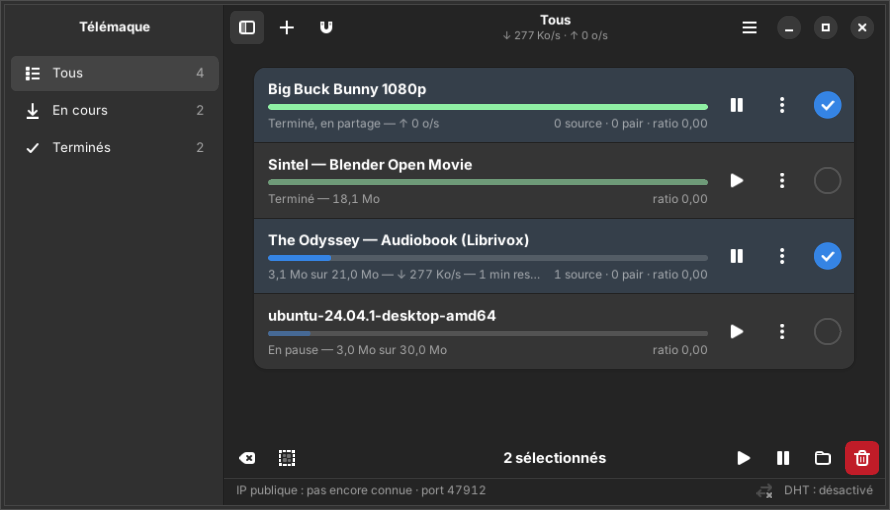
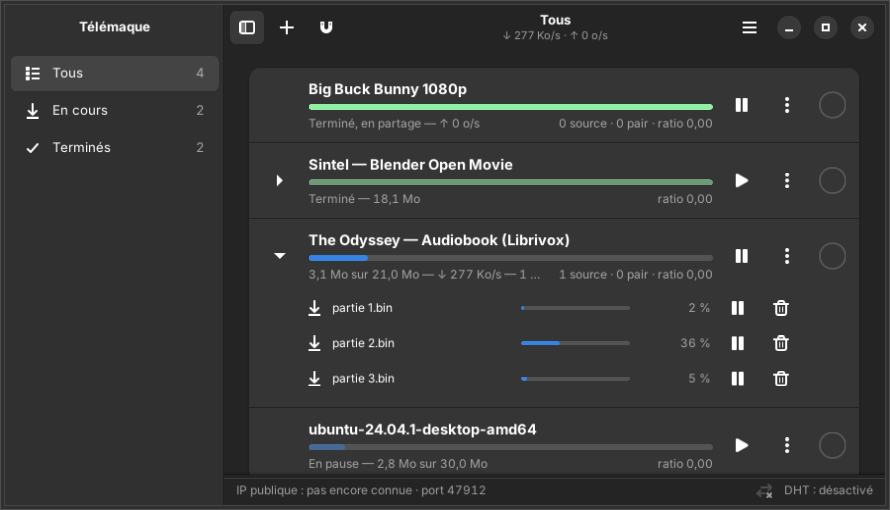
Version 1.0.6
Fichiers d'un torrent dépliés sous sa ligne : barre, arrêter, reprendre,
supprimer chaque fichier.

Claude-Session: https://claude.ai/code/session_01DLrkgZZZBUMYUUihuPcv9t

diff --git a/site/index.html b/site/index.html
@@ -127,13 +127,13 @@
       <a href="#install">Install</a>
       <a href="https://github.com/ToFpon/Telemaque">GitHub</a>
     </div>
-    <span class="get-pill">v1.0.5 · GPL-3.0</span>
+    <span class="get-pill">v1.0.6 · GPL-3.0</span>
   </div>
 </nav>
 
 <header class="hero">
   <div class="wrap">
-    <span class="eyebrow"><span class="dot"></span>Version 1.0.5 — for Ubuntu 24.04, Zorin OS 18, Debian 13</span>
+    <span class="eyebrow"><span class="dot"></span>Version 1.0.6 — for Ubuntu 24.04, Zorin OS 18, Debian 13</span>
     <h1>Torrents.<br><span class="accent">Nothing else.</span></h1>
     <p class="lede">Télémaque downloads torrents with libtorrent — the engine of qBittorrent and Deluge — in a
       native GTK4 and libadwaita window that follows your desktop theme. No video sites, no RSS, no search
@@ -190,6 +190,7 @@
     <div class="grid">
       <div class="card"><div class="ico">⇅</div><h4>Fair sharing</h4><p>Stops sharing at the ratio you choose (1.0 by default), never, or right away.</p></div>
       <div class="card"><div class="ico">⏸</div><h4>Pause, resume, move, rename, remove</h4><p>One download or several at once (round check boxes). Move the files to another folder, rename the folder or any file, during or after the download. Remove from the list only, or delete the files too.</p></div>
+      <div class="card"><div class="ico">▾</div><h4>Every file of a season</h4><p>Unfold a torrent to see each of its files with its own progress bar, and stop, resume or delete any one of them.</p></div>
       <div class="card"><div class="ico">◔</div><h4>.part until complete</h4><p>An incomplete file ends with .part, so it is never mistaken for a finished one. Everything resumes at the next start.</p></div>
       <div class="card"><div class="ico">⚡</div><h4>Speed limits</h4><p>Download and upload limits, listening port, DHT on or off.</p></div>
       <div class="card"><div class="ico">🔔</div><h4>Notifications</h4><p>A desktop notification when a download is finished, with Open and Show in Folder.</p></div>

diff --git a/telemaque/__init__.py b/telemaque/__init__.py
@@ -2,4 +2,4 @@
 
 APP_ID = "io.github.telemaque.Telemaque"
 APP_NAME = "Télémaque"
-VERSION = "1.0.5"
+VERSION = "1.0.6"
